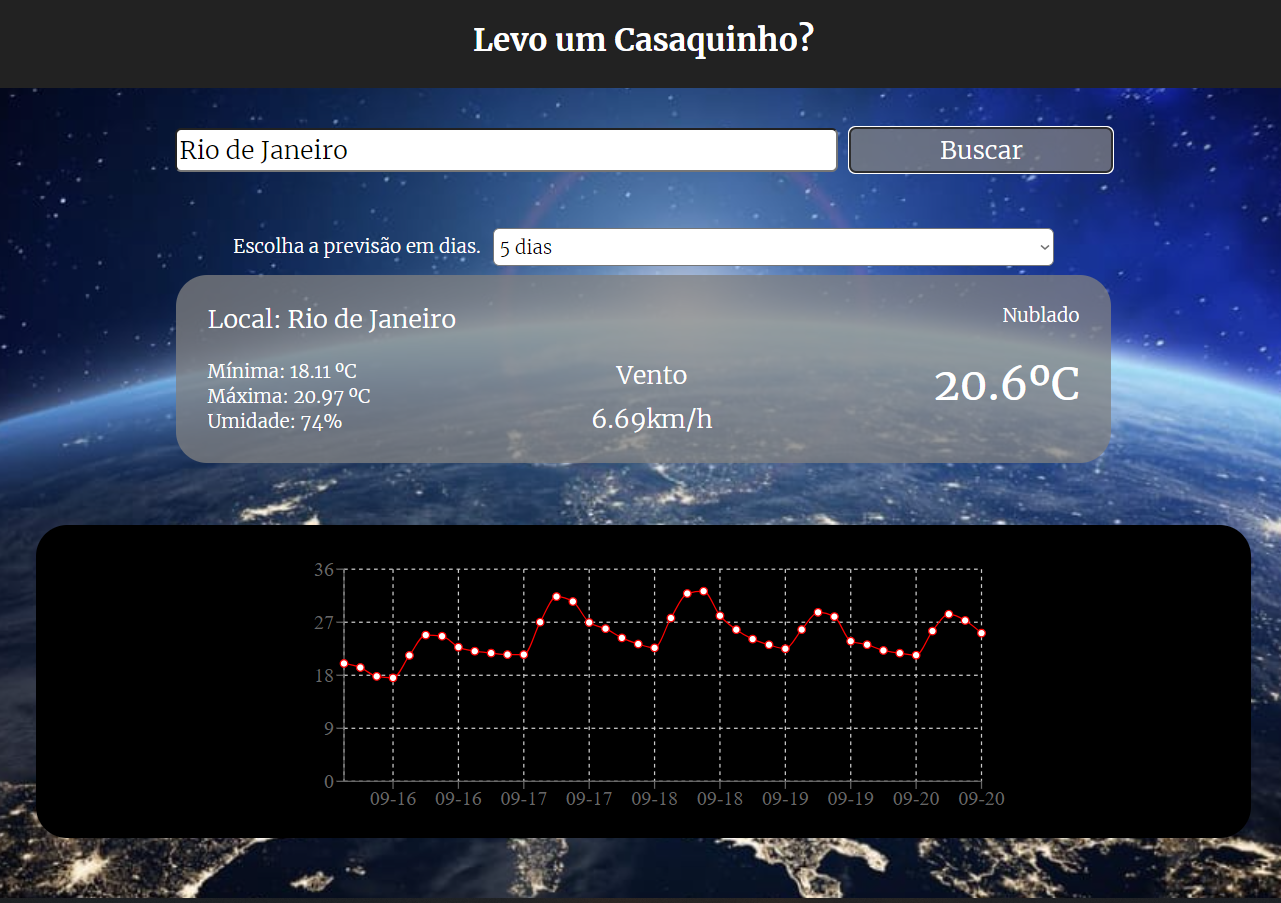
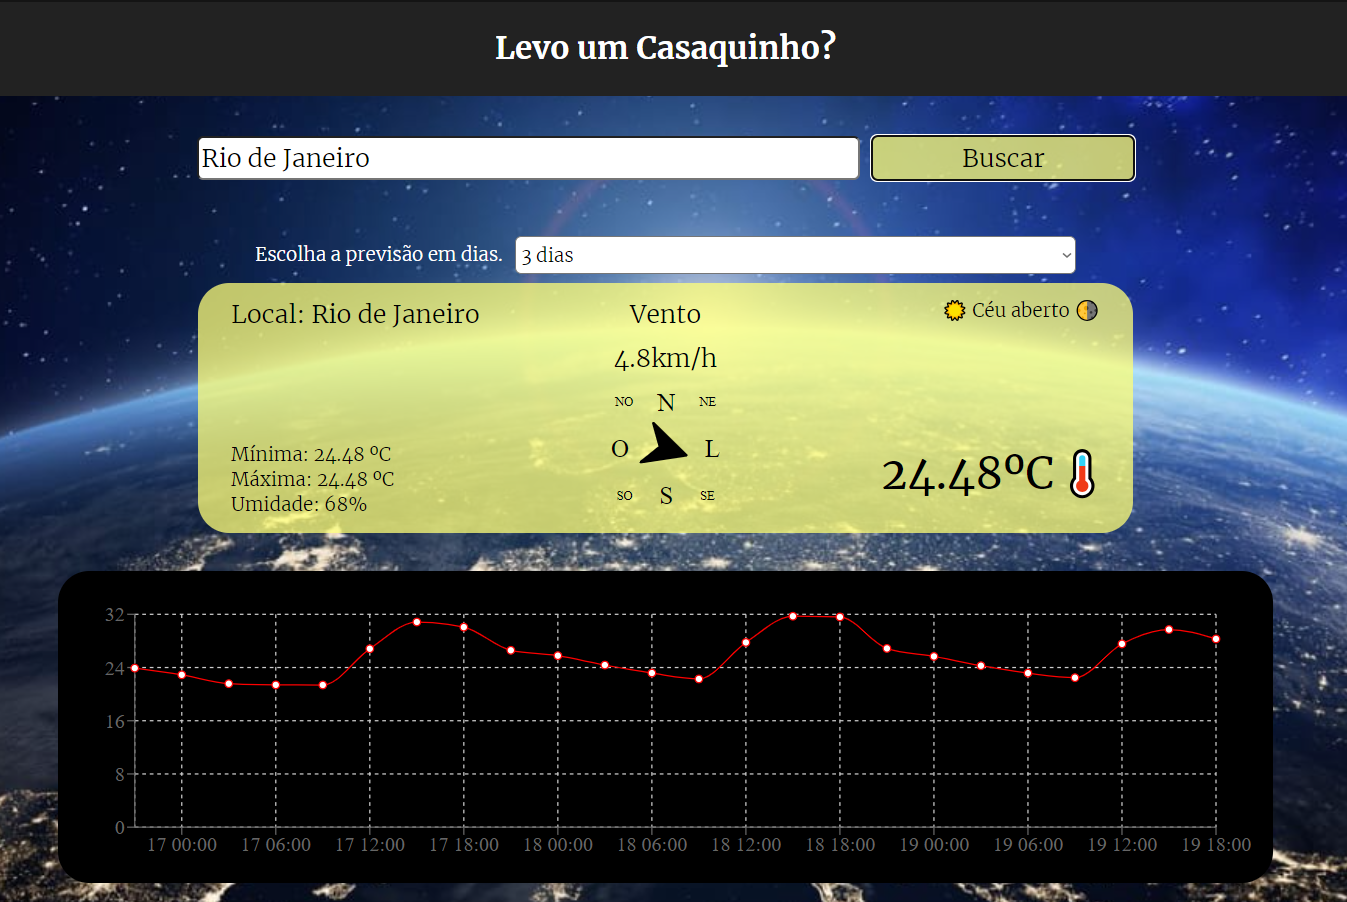
Feat: Added functionality to capture wind direction

diff --git a/src/components/Infos.jsx b/src/components/Infos.jsx
@@ -1,7 +1,7 @@
 /* eslint-disable react/prop-types */
 
 import styled from "styled-components";
-
+import Arrow from "../assets/arrow.svg";
 
 function Infos(props){
     
@@ -12,18 +12,35 @@ function Infos(props){
         <Container colorbackground={colorbackground}>
             <HeaderInfos>
                 <City colortext={colortext}>Local: {city ? city : 'Carregando...'}</City>
-                <WeatherNow colortext={colortext}> {weather ? weather.description : 'Carregando...' } </WeatherNow>
-            </HeaderInfos>
-            <Temperature>
                 <TemperatureData>
                     <Min_Max colortext={colortext}>Mínima: {temp ? temp.min : 'Carregando...'} ºC</Min_Max>
                     <Min_Max colortext={colortext}>Máxima: {temp ? temp.max : 'Carregando...'} ºC</Min_Max>
                     <Min_Max colortext={colortext}>Umidade: {temp ? temp.humidity : 'Carregando...'}%</Min_Max>
                 </TemperatureData>
-                <Wind>
-                    <Speed colortext={colortext}>Vento</Speed>
-                    <Speed colortext={colortext}>{wind.speed}km/h</Speed>
-                </Wind>
+            </HeaderInfos>
+            <Wind>
+                <Speed colortext={colortext}>Vento</Speed>
+                <Speed colortext={colortext}>{wind.speed}km/h</Speed>
+                <Direction>
+                    <Row>
+                        <SecondaryDirection colortext={colortext} >NO</SecondaryDirection>
+                        <PrimaryDirection colortext={colortext} >N</PrimaryDirection>
+                        <SecondaryDirection colortext={colortext} >NE</SecondaryDirection>
+                    </Row>
+                    <Row>
+                        <PrimaryDirection colortext={colortext} >O</PrimaryDirection>
+                        <ArrowDirection src={Arrow} wind={wind} colortext={colortext}/>
+                        <PrimaryDirection colortext={colortext} >L</PrimaryDirection>
+                    </Row>
+                    <Row>
+                        <SecondaryDirection colortext={colortext} >SO</SecondaryDirection>
+                        <PrimaryDirection colortext={colortext} >S</PrimaryDirection>
+                        <SecondaryDirection colortext={colortext} >SE</SecondaryDirection>
+                    </Row>
+                </Direction>
+            </Wind>
+            <Temperature>
+                <WeatherNow colortext={colortext}> {weather ? weather.description : 'Carregando...' } </WeatherNow>
                 <TemperatureNow colortext={colortext}>
                     {temp ? temp.temp : 'Carregando...'}ºC 🌡
                 </TemperatureNow>
@@ -38,21 +55,23 @@ export default Infos;
 
 const Container = styled.div`
     display: flex;
-    flex-direction: column;
     margin: auto;
     width: 50%;
-    height: 150px;
+    height: 200px;
+    justify-content: space-around;
     border-radius: 25px;
 
     box-sizing: border-box;
-    padding: 25px;
+    padding: 15px;
+    
 
     background-color: ${props => props.colorbackground};
     transition: 1.5s;
 `
 const HeaderInfos = styled.div`
     display: flex;
-    width: 100%;
+    flex-direction: column;
+    width: 275px;
     justify-content: space-between;
     transition: 1.5s;
 `
@@ -78,9 +97,11 @@ const WeatherNow = styled.p`
 `
 const Temperature = styled.div`
     display: flex;
-    width: 100%;
+    flex-direction: column;
+    width: 275px;
     justify-content: space-between;
-    margin: auto auto 0 0;
+    align-items: end;
+    padding-bottom: 15px;
 `
 const TemperatureData = styled.div`
     display: flex;
@@ -91,8 +112,9 @@ const TemperatureData = styled.div`
 const Wind = styled.div`
     display: flex;
     flex-direction: column;
-    align-items: center;
+    align-items: center;;
     gap: 15px;
+    width: 100px;
 `
 const Speed = styled.p`
     font-family: 'Merriweather', serif;
@@ -102,6 +124,40 @@ const Speed = styled.p`
     -webkit-text-stroke: 5%;
     -webkit-text-stroke-color: ${props => props.colortext === 'black' ? 'white' : 'black'};
     width: fit-content;
+`
+const Direction = styled.div`
+    display: flex;
+    flex-direction: column;
+    width: 100%;
+    gap: 10px;
+`
+const Row = styled.div`
+    display: flex;
+    justify-content: space-around;
+`
+const PrimaryDirection = styled.div`
+    display: flex;
+    align-items: center;
+    justify-content: center;
+    font-size: 20px;
+    color: ${props => props.colortext};
+    transition: 1.5s;
+`
+const SecondaryDirection = styled.div`
+    display: flex;
+    align-items: center;
+    justify-content: center;
+    font-size: 10px;
+    color: ${props => props.colortext};
+    transition: 1.5s;
+`
+const ArrowDirection = styled.img`
+    display: flex;
+    width: 35px;
+    transform: rotate(${props => props.wind.deg}deg);
+    transition: 1.5s;
+    color: ${props => props.colortext};
+    box-shadow: 0px 2.5px  5px ${props => props.colortext};
 `
 const Min_Max = styled.p`
     font-family: 'Merriweather', serif;

diff --git a/src/components/Forecast.jsx b/src/components/Forecast.jsx
@@ -8,7 +8,7 @@ function Forecast(props){
 
     return (
         <Container colorbackground={colorbackground} colortext={colortext}>
-            <LineChart  width={600} height={230} data={data} margin={{ top: 25, left: 0, right: 30, bottom: 5 }}>
+            <LineChart  width={1000} height={230} data={data} margin={{ top: 25, left: 15, right: 60, bottom: 5 }}>
                 <CartesianGrid strokeDasharray="3 3" />
                 <XAxis dataKey="name" />
                 <YAxis dataKey=""/>
@@ -27,7 +27,7 @@ const Container = styled.div`
     height: 250px;
     align-items: center;
     justify-content: center;
-    margin: 50px auto;
+    margin: 30px auto;
     border-radius: 25px;
     box-sizing: border-box;
     background-color: black;

diff --git a/src/components/Search.jsx b/src/components/Search.jsx
@@ -76,7 +76,6 @@ const Input = styled.input`
 `
 const Button = styled.button`
     display: flex;
-
     margin: 50px auto 50px 5px;
     width: 14%;
     height: 35px;
@@ -95,6 +94,13 @@ const Button = styled.button`
     font-family: 'Merriweather', serif;
     font-weight: 300;
     font-size: 20px;
+
+    &:hover {
+        box-shadow: 0 0 15px ${props => props.colorbackground};
+        background-color: ${props => props.colorbackground};
+        transition: 0.5s;
+    }
+    transition: 0.5s;
 
     cursor: pointer;
     transition: 2s;

diff --git a/src/pages/Home.jsx b/src/pages/Home.jsx
@@ -88,7 +88,7 @@ function Home(){
                     if(days == 1){
                         return ({name: item.dt_txt.slice(-9, -3), temp: item.main.temp})
                     }else if(days > 1 && days < 4){
-                        return ({name: item.dt_txt.slice(5, -3), temp: item.main.temp})
+                        return ({name: item.dt_txt.slice(8, -3), temp: item.main.temp})
                     }else{
                         return ({name: item.dt_txt.slice(5, 10), temp: item.main.temp})
                     }

diff --git a/README.md b/README.md
@@ -13,10 +13,11 @@ Acesse [Este Link](https://jacketguard.vercel.app/) para conferir a aplicação.
 - A aplicação busca qualquer cidade brasileira 🌎, seja pos localização automática ou por pesquisa de texto.
 - Quando se busca uma cidade 🏙, as vezes a aplicação retornará uma bairro 🏘 daquela mesma cidade
 - É possível escolher o tipo de previsão 🌦, sendo entre 1 e 5 dias, inclusive ⌛.
-- Quando é selecionado 1 dia para a previsão, o gráfico 📊 retornará em horas ⌚.
+- Quando é selecionado 1 dia para a previsão, o gráfico 📊 retornará a previsão em intervalos de 3 horas 🕒.
 - Quando é selecionado de 1 a 3 dias, inclusive, será retornado data e hora 📅⌚.
 - A partir de 4 dias, o grafico retornará apenas as datas 📅.
 - Vale observar que cada ponto no gráfico 📊corresponde uma previsão a cada 3 horas 🕒.
+- A aplicação também mostrará velocidade em Km/h 🏍💨 e direção do vento 🧭.
 
 
 # Casos
